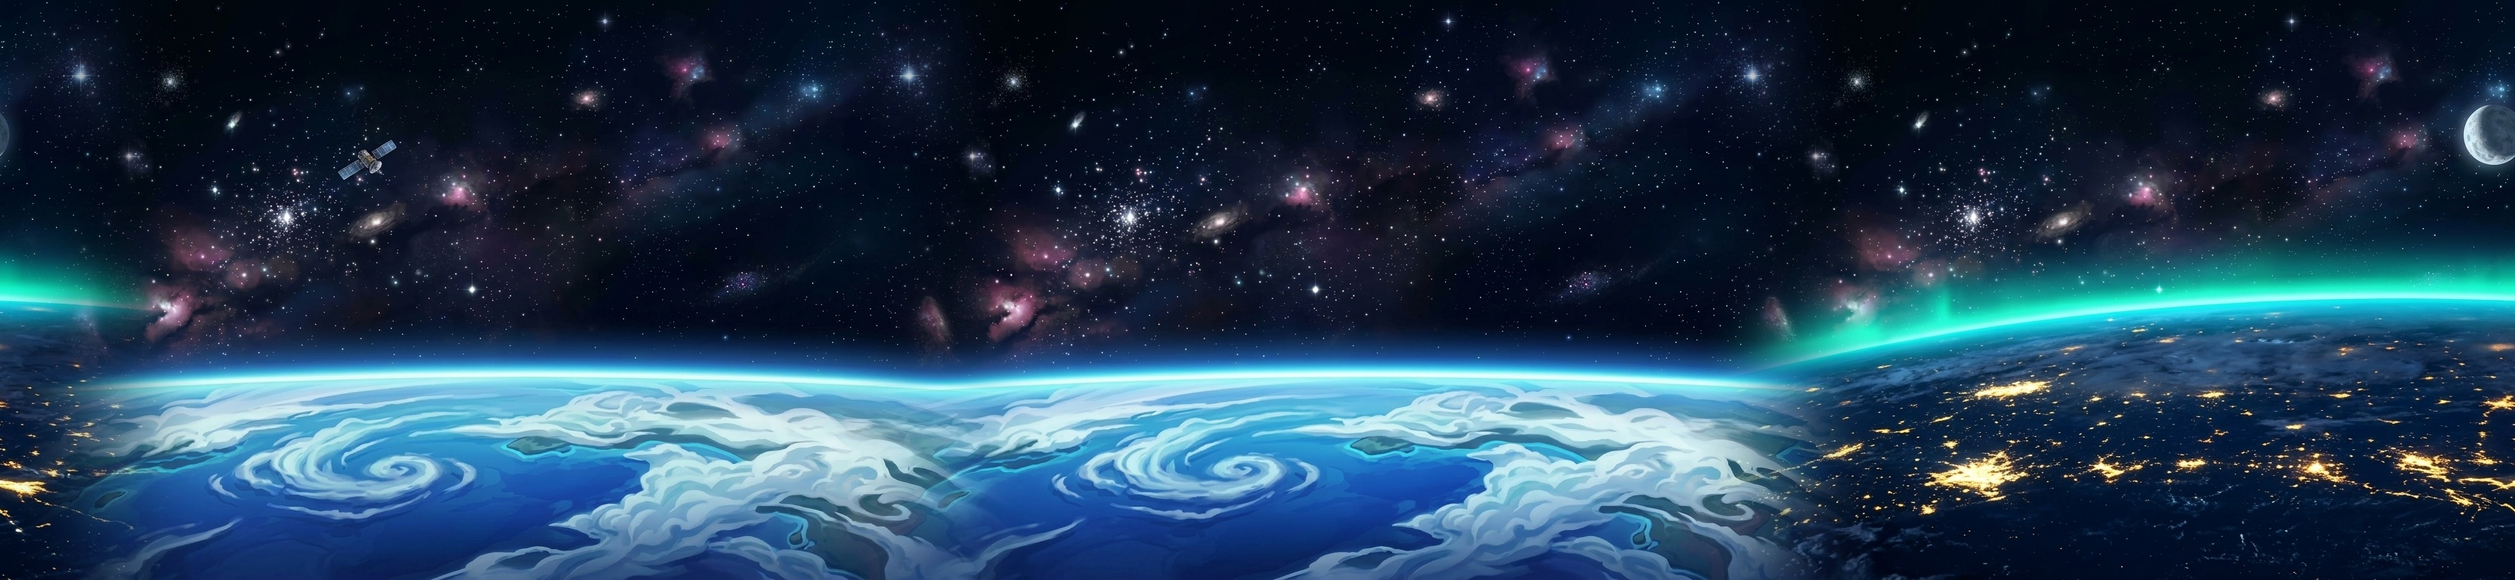
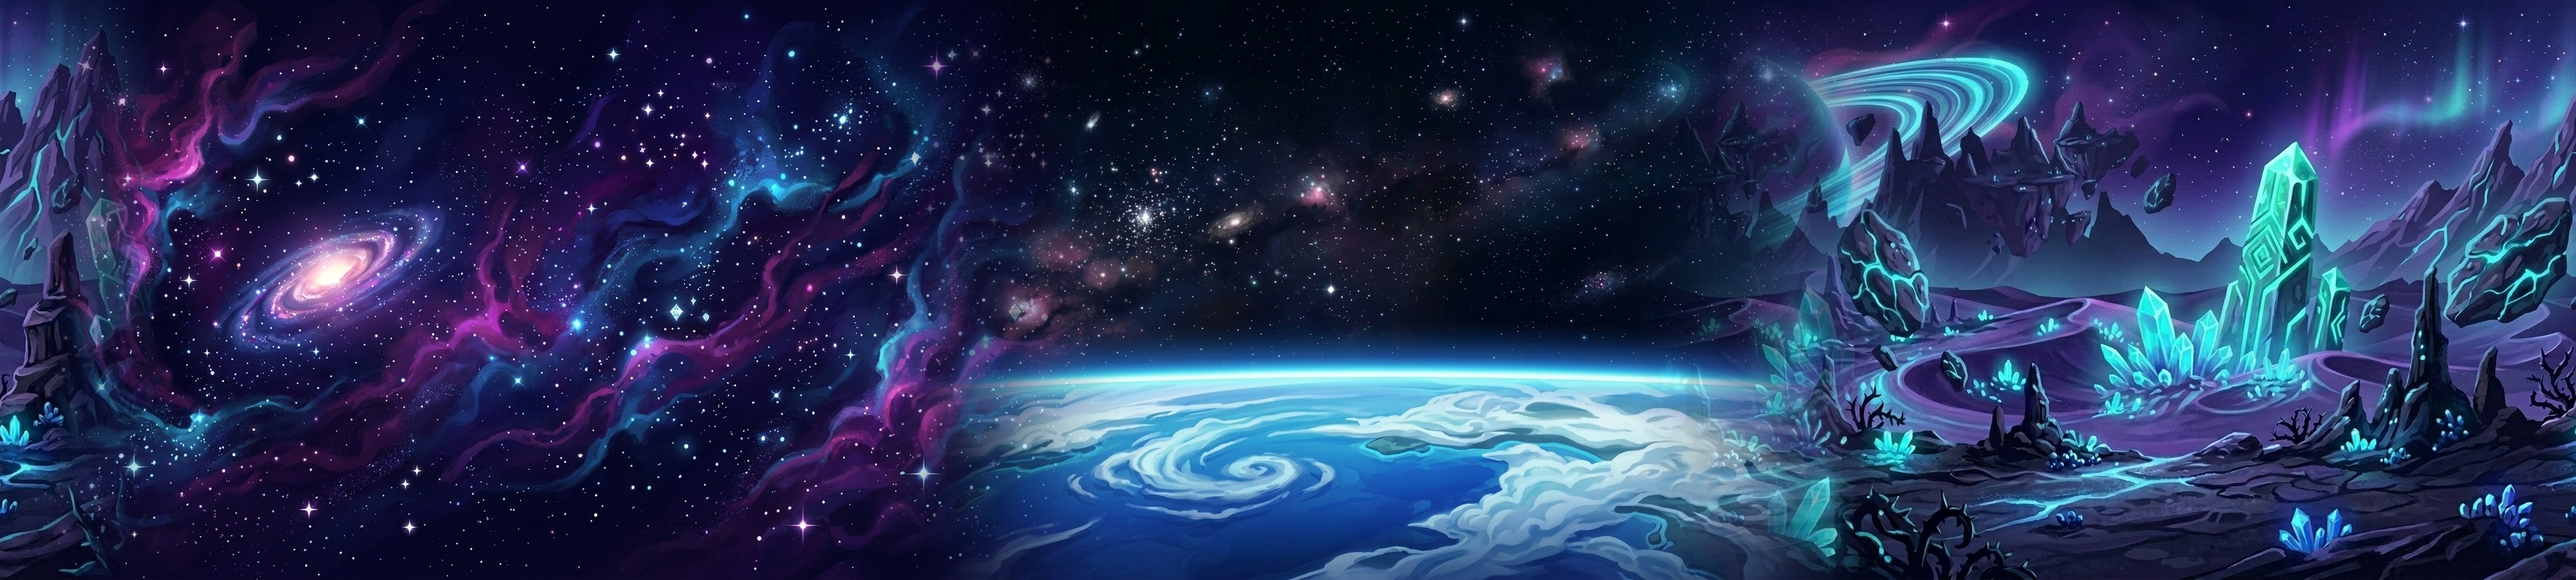
Overhaul Space Mode panorama: feature single magnificent center Earth flanked by deep starry space without Earth on left/right

diff --git a/stitch_space.py b/stitch_space.py
@@ -20,7 +20,7 @@ def smooth_blend(arr1, arr2, overlap):
     
     return np.concatenate([left_part, blended_overlap, right_part], axis=1)
 
-def make_truly_seamless(arr, wrap_overlap=280):
+def make_truly_seamless(arr, wrap_overlap=240):
     H, W, C = arr.shape
     K = wrap_overlap
     L = arr[:, :K, :].astype(np.float32)
@@ -34,57 +34,65 @@ def make_truly_seamless(arr, wrap_overlap=280):
     
     return np.concatenate([blended, middle], axis=1).astype(np.uint8)
 
-def process_space_panorama():
+def process_one_earth_space_panorama():
     base_dir = r"C:\Users\gurpr\.gemini\antigravity-ide\brain\077f5367-1aab-439d-9e17-d894ac96da0d"
-    p1_path = os.path.join(base_dir, "flat_orbit_1_clean_1788284575898.jpg")
-    p2_path = os.path.join(base_dir, "flat_orbit_2_1788284533857.jpg")
-    p3_path = os.path.join(base_dir, "flat_orbit_3_1788284552824.jpg")
+    
+    # Left: Pure deep space with spiral galaxy & nebulae (No Earth)
+    p_left = os.path.join(base_dir, "deep_space_left_1788289614521.jpg")
+    # Center: Single magnificent Earth orbit shot
+    p_center = os.path.join(base_dir, "flat_orbit_2_1788284533857.jpg")
+    # Right: Pure deep space with cosmic dust & stars (No Earth)
+    p_right = os.path.join(base_dir, "stylized_cosmos_3_1788261454027.jpg")
     
     target_height = 768
-    
-    img1 = Image.open(p1_path).convert("RGB")
-    img2 = Image.open(p2_path).convert("RGB")
-    img3 = Image.open(p3_path).convert("RGB")
     
     def resize_h(img, h):
         w = int(round(img.width * (h / img.height)))
         return img.resize((w, h), Image.Resampling.LANCZOS)
     
-    img1 = resize_h(img1, target_height)
-    img2 = resize_h(img2, target_height)
-    img3 = resize_h(img3, target_height)
+    img_l = resize_h(Image.open(p_left).convert("RGB"), target_height)
+    img_c = resize_h(Image.open(p_center).convert("RGB"), target_height)
+    img_r = resize_h(Image.open(p_right).convert("RGB"), target_height)
     
-    arr1 = np.array(img1)
-    arr2 = np.array(img2)
-    arr3 = np.array(img3)
+    arr_l = np.array(img_l).astype(np.float32)
+    arr_c = np.array(img_c).astype(np.float32)
+    arr_r = np.array(img_r).astype(np.float32)
     
-    overlap = 260
+    H, W, C = arr_c.shape
     
-    print(f"Panel 1 shape: {arr1.shape}")
-    print(f"Panel 2 shape: {arr2.shape}")
-    print(f"Panel 3 shape: {arr3.shape}")
+    # Natural curvature fade on Earth flanks so it curves into cosmic void
+    earth_mask = np.ones((H, W, 1), dtype=np.float32)
+    fade_w = 380
     
-    # 1. Stitch 1 -> 2
-    stitched_12 = smooth_blend(arr1, arr2, overlap)
-    # 2. Stitch 12 -> 3
-    stitched_123 = smooth_blend(stitched_12, arr3, overlap)
-    print(f"Stitched 3 panels shape: {stitched_123.shape}")
+    t_left = np.linspace(0, 1, fade_w)
+    left_alpha = (0.5 - 0.5 * np.cos(np.pi * t_left))[np.newaxis, :, np.newaxis]
+    earth_mask[:, :fade_w, :] *= left_alpha
     
-    # 3. Make wrap-around seamless
-    seamless_space = make_truly_seamless(stitched_123, wrap_overlap=280)
-    print(f"Final seamless continuous Earth orbit panorama shape: {seamless_space.shape}")
+    t_right = np.linspace(1, 0, fade_w)
+    right_alpha = (0.5 - 0.5 * np.cos(np.pi * t_right))[np.newaxis, :, np.newaxis]
+    earth_mask[:, W - fade_w:, :] *= right_alpha
     
-    final_img = Image.fromarray(seamless_space)
+    bg_for_center = np.zeros_like(arr_c)
+    bg_for_center[:, :W//2, :] = arr_l[:, W//2:, :]
+    bg_for_center[:, W//2:, :] = arr_r[:, :W//2, :]
+    
+    curved_earth_center = (arr_c * earth_mask + bg_for_center * (1.0 - earth_mask)).astype(np.uint8)
+    
+    overlap = 240
+    stitched_12 = smooth_blend(arr_l.astype(np.uint8), curved_earth_center, overlap)
+    stitched_all = smooth_blend(stitched_12, arr_r.astype(np.uint8), overlap)
+    seamless_space = make_truly_seamless(stitched_all, wrap_overlap=240)
     
     out_dir = r"c:\Users\gurpr\OneDrive\Desktop\Projects\Flutter\Work - Freelance\Games\dino_run_epochs\assets\images"
     out_path = os.path.join(out_dir, "space_bg.jpg")
     
+    final_img = Image.fromarray(seamless_space)
     final_img.save(out_path, quality=95, optimize=True)
-    print(f"Saved continuous Earth orbit Space Mode background to: {out_path}")
+    print(f"Saved single Earth Space Mode background to: {out_path}")
     
     pano_copy = os.path.join(out_dir, "space_bg_panorama.jpg")
     final_img.save(pano_copy, quality=95, optimize=True)
     print(f"Saved panorama copy to: {pano_copy}")
 
 if __name__ == "__main__":
-    process_space_panorama()
+    process_one_earth_space_panorama()
